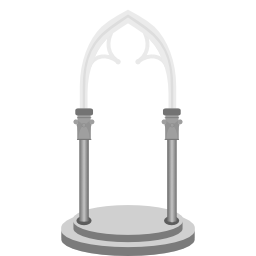
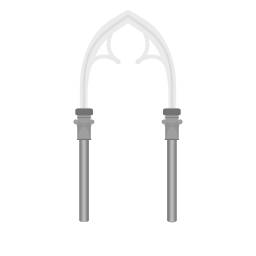
update map (serre, tiles,...)

Changed region(s): [[0.2188, 0.7812, 0.7812, 1.0]]

diff --git a/src/phaser/scenes/LoadScene.js b/src/phaser/scenes/LoadScene.js
@@ -16,6 +16,8 @@ var LoadScene = new Phaser.Class({
         this.load.image('pierre_gravee', '/img/pierre_gravee.png');
         this.load.image('portail_ferme', '/img/portail_ferme.png');
         this.load.image('portail_ouvert', '/img/portail_ouvert.png');
+        this.load.image('portail_socle', '/img/sol_portail.png');
+        this.load.image('btn_quitter', '/img/quitter.jpg');
         //this.load.bitmapFont('myfont', '/assets/fonts/Berry-Rotunda.png','/assets/fonts/BerryRotunda.xml');
         // PICTURES
             // DISTRICT NORD
@@ -38,7 +40,7 @@ var LoadScene = new Phaser.Class({
     },
     create: function(config){
         console.log("on passe ici...");
-        game.backgroundColor='#000000';
+        game.backgroundColor='#6E5940';
         //console.table(config);
         //==========================================
         //  TEST POLICE
@@ -81,14 +83,14 @@ var LoadScene = new Phaser.Class({
             //==========================================
             //  AJOUT DU JOUEUR
             //==========================================
-            player = this.physics.add.image(500,500,'sprite').setDepth(25);
+            player = this.physics.add.image(1250,950,'sprite').setDepth(25);
             player.name = "myPlayer";
             player.setCollideWorldBounds(true);
             playerVelocity = 2;
             cursors = this.input.keyboard.createCursorKeys();
             //==========================================    
         var layer30 = map.createLayer('buisson', [tileset10]).setDepth(30);
-        var layer40 = map.createLayer('tp', [tileset10]).setDepth(40);
+        //var layer40 = map.createLayer('tp', [tileset10]).setDepth(40);
         var layer50 = map.createLayer('ruine stage 2', [tileset10]).setDepth(50);
         var layer60 = map.createLayer('ruine top', [tileset10]).setDepth(60);
         var layer70 = map.createLayer('ruine bottom', [tileset10]).setDepth(70);
@@ -104,13 +106,6 @@ var LoadScene = new Phaser.Class({
         var layer170 = map.createLayer('chappelle', [tileset10]).setDepth(170);
         var layer180 = map.createLayer('chappelle center', [tileset10]).setDepth(180);
         var layer190 = map.createLayer('chappelle top', [tileset10]).setDepth(190);
-        //var layer30 = map.createLayer('ruines', [tileset10],0,-128).setDepth(30);
-        //var layer40 = map.createLayer('bushes', [tileset10],0,-128).setDepth(40);
-        //var layer50 = map.createLayer('arbres', [tileset10],0, -512).setDepth(50);
-        //var layer60 = map.createLayer('walls', [tileset10],0, -472).setDepth(60);
-        //var layer70 = map.createLayer('walls_invisible', [tileset10],0, -472).setDepth(70);
-        //var layer80 = map.createLayer('roofs', [tileset10],0, -372).setDepth(80);
-        //var layer90 = map.createLayer('roofs_invisible', [tileset10],0,-372).setDepth(90);
         
         //==========================================
         //  GESTION DE LA CAMERA
@@ -141,9 +136,17 @@ var LoadScene = new Phaser.Class({
         this.minimap.scrollY = 900;
         //this.minimap.visible = false;
         //==========================================
+        //  AJOUT BOUTON QUITTER
+        //==========================================
+        var btnQuitter = this.add.sprite(1350, 900,"btn_quitter").setInteractive().setDepth(999);
+        btnQuitter.fixedToCamera = true;
+        btnQuitter.on("pointerup", function(){
+
+        })
+        //==========================================
         //  AJOUT DES PORTAILS
         //==========================================
-        var fondsNoir = this.add.rectangle(0, 0, 12600 , 6500, 0x000000).setDepth(1);   
+        var fondsNoir = this.add.rectangle(0, 0, 12600 , 6500, 0x6E5940).setDepth(1);   
         //=================
         //  PORTAIL NORD
         //=================
@@ -160,6 +163,7 @@ var LoadScene = new Phaser.Class({
         //this.graphics.strokeRect(100,200,200,400);
         //var portailN = this.add.rectangle(0, 0, 50, 75, 0x92623A).setDepth(999).setInteractive();
         var portailN = this.physics.add.image(130,730,"portail_ferme").setInteractive().setDepth(999);
+        var portailN_socle = this.physics.add.image(130,730,"portail_socle").setInteractive().setDepth(24);
         portailN.on("pointerup", function(){
             localStorage.setItem("insideRoom", true);
             Client.socket.emit("enterRoom");
@@ -168,6 +172,7 @@ var LoadScene = new Phaser.Class({
             });
         })    
         var portailC = this.physics.add.image(540,1790,"portail_ferme").setInteractive().setDepth(999);
+        var portailC_socle = this.physics.add.image(540,1790,"portail_socle").setInteractive().setDepth(24);
         portailC.on("pointerup", function(){
             localStorage.setItem("insideRoom", true);
             Client.socket.emit("enterRoom");
@@ -176,6 +181,7 @@ var LoadScene = new Phaser.Class({
             });
         }) 
         var portailO = this.physics.add.image(-2040,1550,"portail_ferme").setInteractive().setDepth(999);
+        var portailO_socle = this.physics.add.image(-2040,1550,"portail_socle").setInteractive().setDepth(24);
         portailO.on("pointerup", function(){
             localStorage.setItem("insideRoom", true);
             Client.socket.emit("enterRoom");
@@ -184,6 +190,7 @@ var LoadScene = new Phaser.Class({
             });
         }) 
         var portailE = this.physics.add.image(140,2650,"portail_ferme").setInteractive().setDepth(999);
+        var portailE_socle = this.physics.add.image(140,2650,"portail_socle").setInteractive().setDepth(24);
         portailE.on("pointerup", function(){
             localStorage.setItem("insideRoom", true);
             Client.socket.emit("enterRoom");
@@ -192,6 +199,7 @@ var LoadScene = new Phaser.Class({
             });
         })         
         var portailS = this.physics.add.image(-1150,3290,"portail_ferme").setInteractive().setDepth(999);
+        var portailS_socle = this.physics.add.image(-1150,3290,"portail_socle").setInteractive().setDepth(24);
         portailS.on("pointerup", function(){
             localStorage.setItem("insideRoom", true);
             Client.socket.emit("enterRoom");

diff --git a/src/phaser/main.js b/src/phaser/main.js
@@ -16,7 +16,7 @@ var config = {
         }
     },
     pixelArt: true,
-    backgroundColor: '#000000',
+    backgroundColor: '#6E5940',
     parent: 'visite',
     key: 'LoadScene',
     scene: [ LoadScene, DnRoom, DcRoom, DeRoom ]
